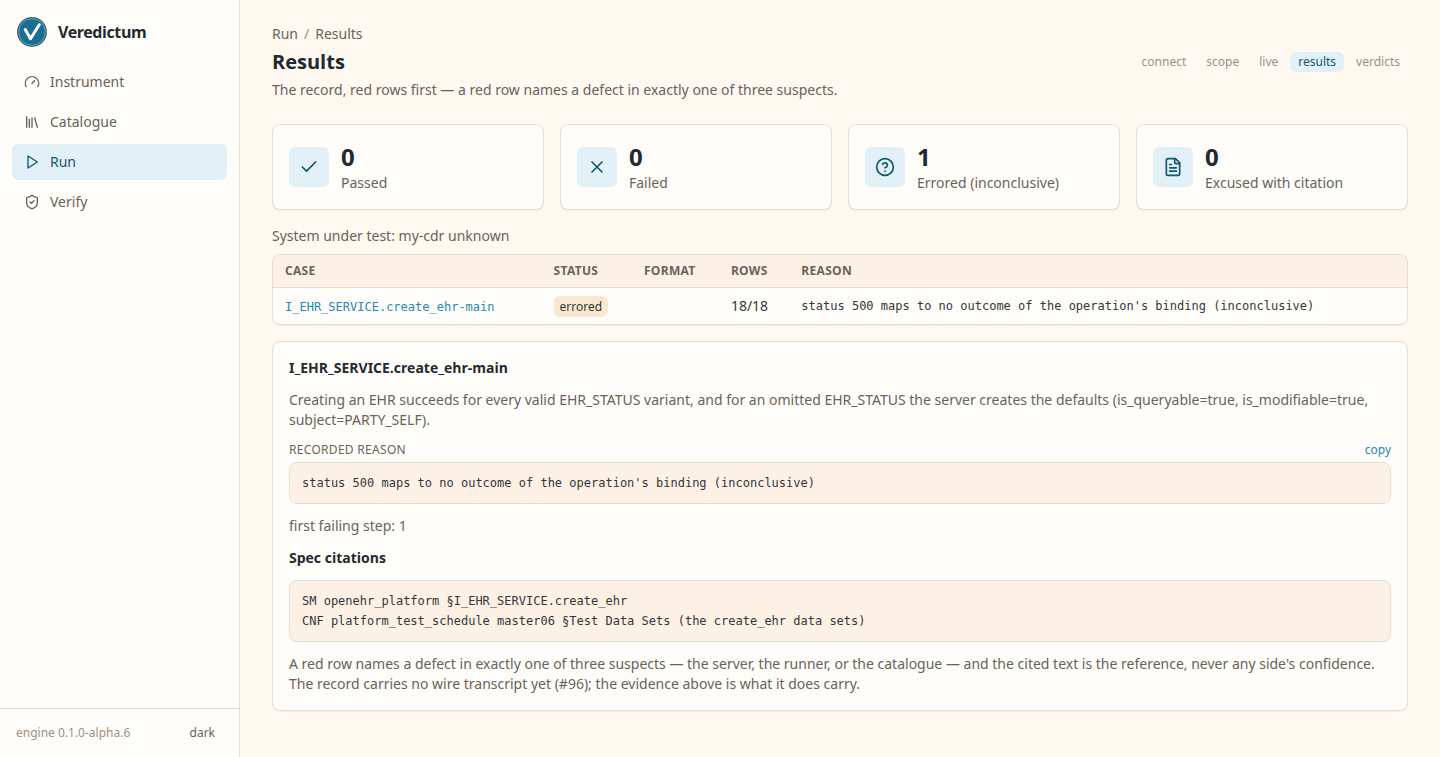
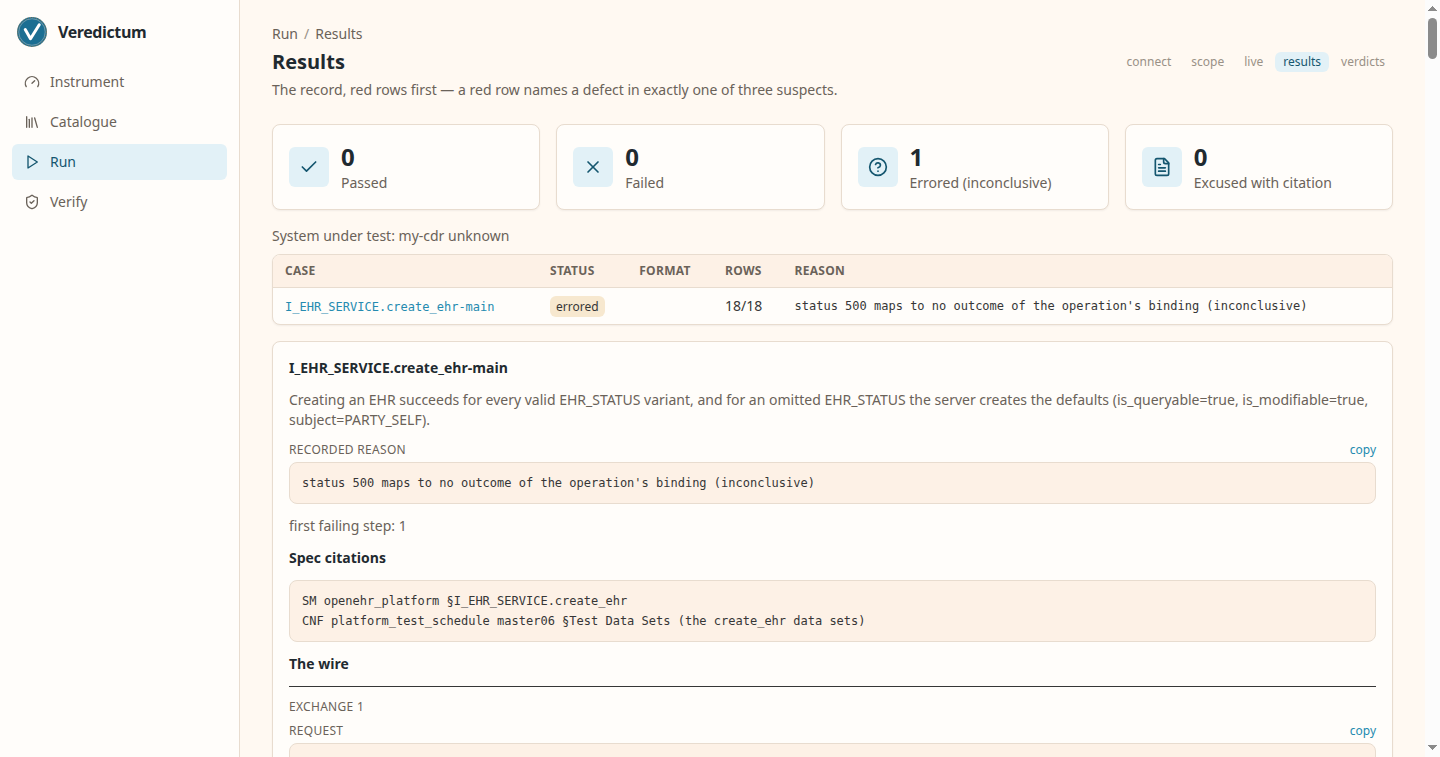
test(console): the merged tree's gates and captures
The two features crossed: the export gate's RunSpec gains the transcript
flag, the record-surfaces gate's state gains the key paths, and the four
conflicted captures are re-shot on the first tree where the export section
and the wire panes both exist. Full console suite 63/63 on the workspace
engine.

diff --git a/app/veredictum-console/tests/it/export_gate.rs b/app/veredictum-console/tests/it/export_gate.rs
@@ -123,6 +123,7 @@ fn driven(out: &Path) -> Result<Option<(ConsoleState, Engine)>, Box<dyn std::err
             filter: Some(String::from("I_EHR_SERVICE.create_ehr-main")),
             credentials: vec![],
             progress: true,
+            record_exchanges: false,
         },
         String::from("export-gate"),
     )?;

diff --git a/app/veredictum-console/tests/it/run_live.rs b/app/veredictum-console/tests/it/run_live.rs
@@ -340,6 +340,8 @@ fn a_recorded_run_fills_the_drawer_with_its_wire() -> Result<(), Box<dyn std::er
             filter: None,
             record_exchanges: false,
         }))),
+        sign_key: None,
+        verify_key: None,
         jobs: JobSlot::default(),
     };
 
